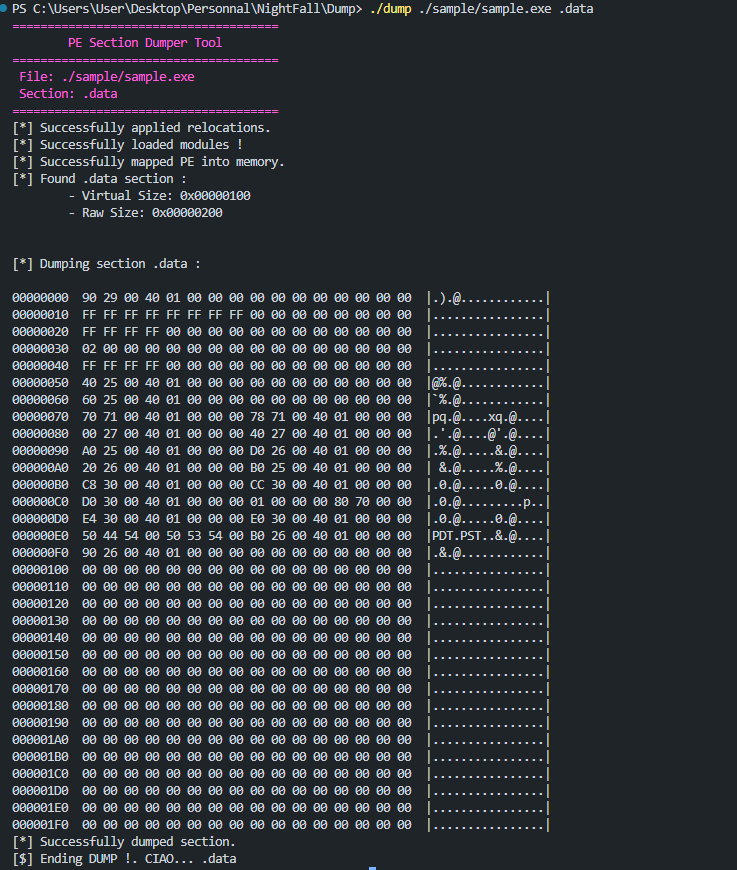
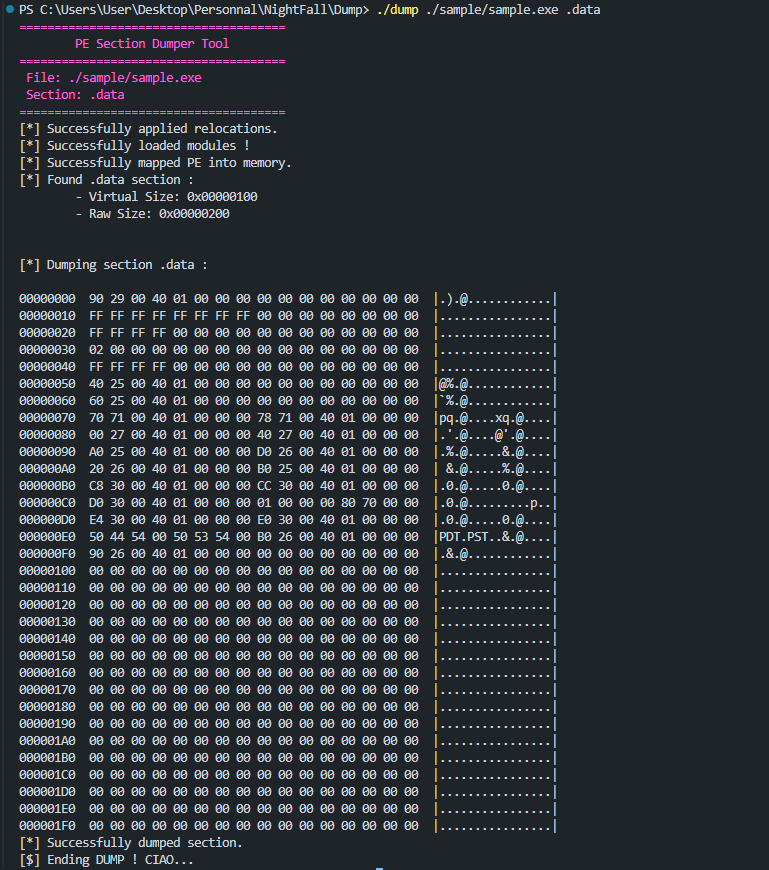
DOC : adding readme & base asset demo

Changed region(s): [[0.0, 0.2793, 0.749, 1.0], [0.0, 0.0, 0.8114, 0.2483], [0.4681, 0.9931, 0.5305, 1.0]]

diff --git a/main.cpp b/main.cpp
@@ -202,6 +202,6 @@ int main(int argc, char ** argv){
         return EXIT_FAILURE;
     }
 
-    cout << "[$] Ending DUMP !. CIAO... " << lpName << endl;
+    cout << "[$] Ending DUMP ! CIAO... " << endl;
     return EXIT_SUCCESS;
 }

diff --git a/README.md b/README.md
@@ -20,5 +20,9 @@ Dump is a base cli tool aiming to easily dump a PE section & view informations a
 `pe.hpp` : a base lib containing PE manipulation functions (ReadFile, Load imports, Relocations).
 `main.cpp` : base file containe PeViewer class in charge of the dumping process.
 
+## Build & RUN : 
+
+Build program using `g++ main.cpp -o dump` & run it using : `./dump <path_to_pe> <.section>`
+
 ---
 <img src="https://github.com/NightFall-Security/Dump/blob/main/assets/demo.png" alt="DebugInfo" />
